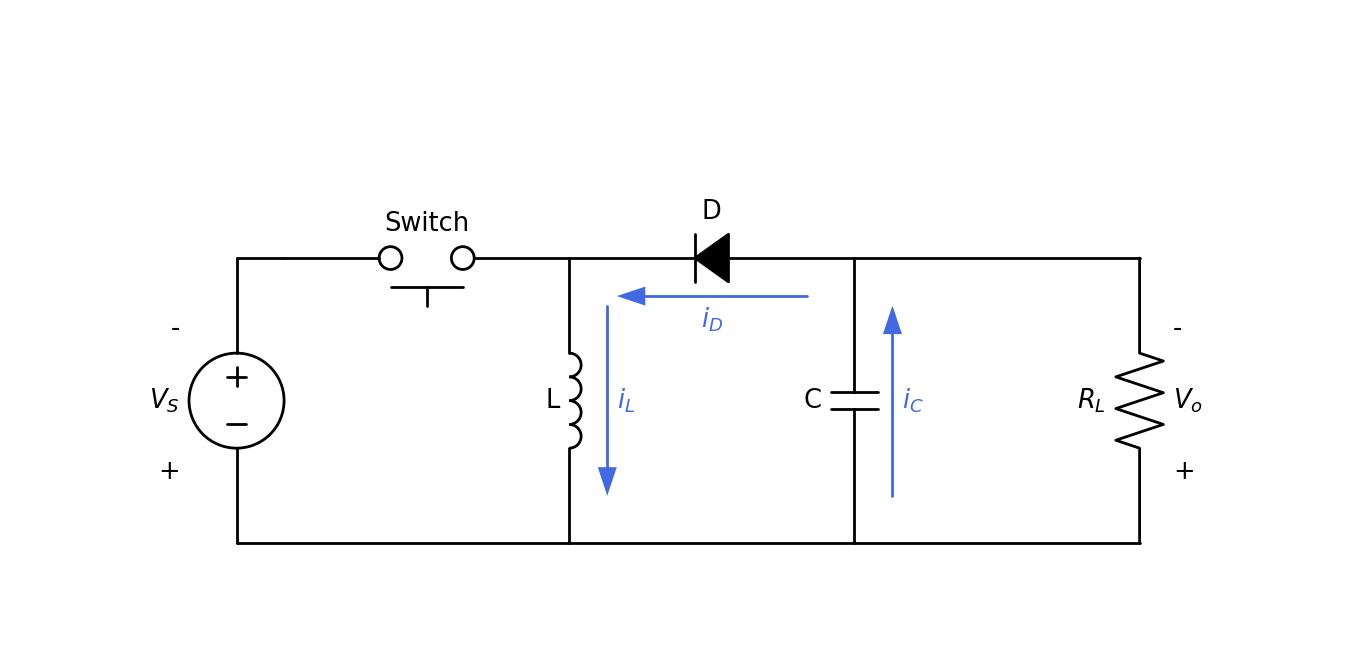
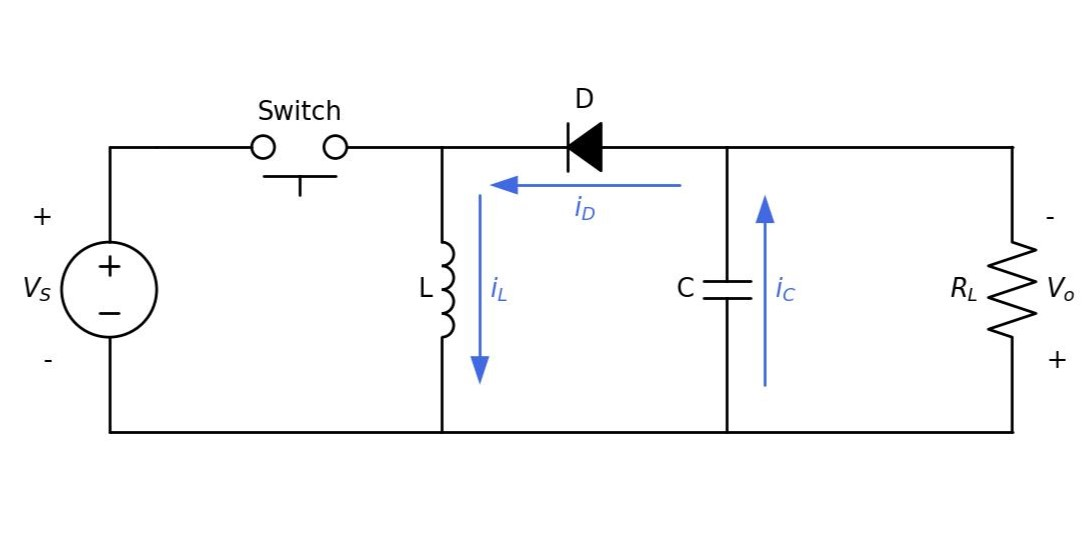
Correction

diff --git a/4. Power Electronics/Ćuk converter.py b/4. Power Electronics/Ćuk converter.py
@@ -4,7 +4,7 @@ import schemdraw.elements as elm
 with schemdraw.Drawing() as d:
     d.config(fontsize=20)
 
-    d += (S1 := elm.SourceV().up().label(['+', '$V_S$', '-'], loc='top'))
+    d += (S1 := elm.SourceV().up().label(['-', '$V_S$', '+'], loc='top'))
     d += (L1 := elm.Line().right().at(S1.end).length(0.5))
     d += (sw1 := elm.Button().right().flip().at(L1.end).label('Switch'))
     d += (Ind1 := elm.Inductor().down().at(sw1.end).label('L'))
